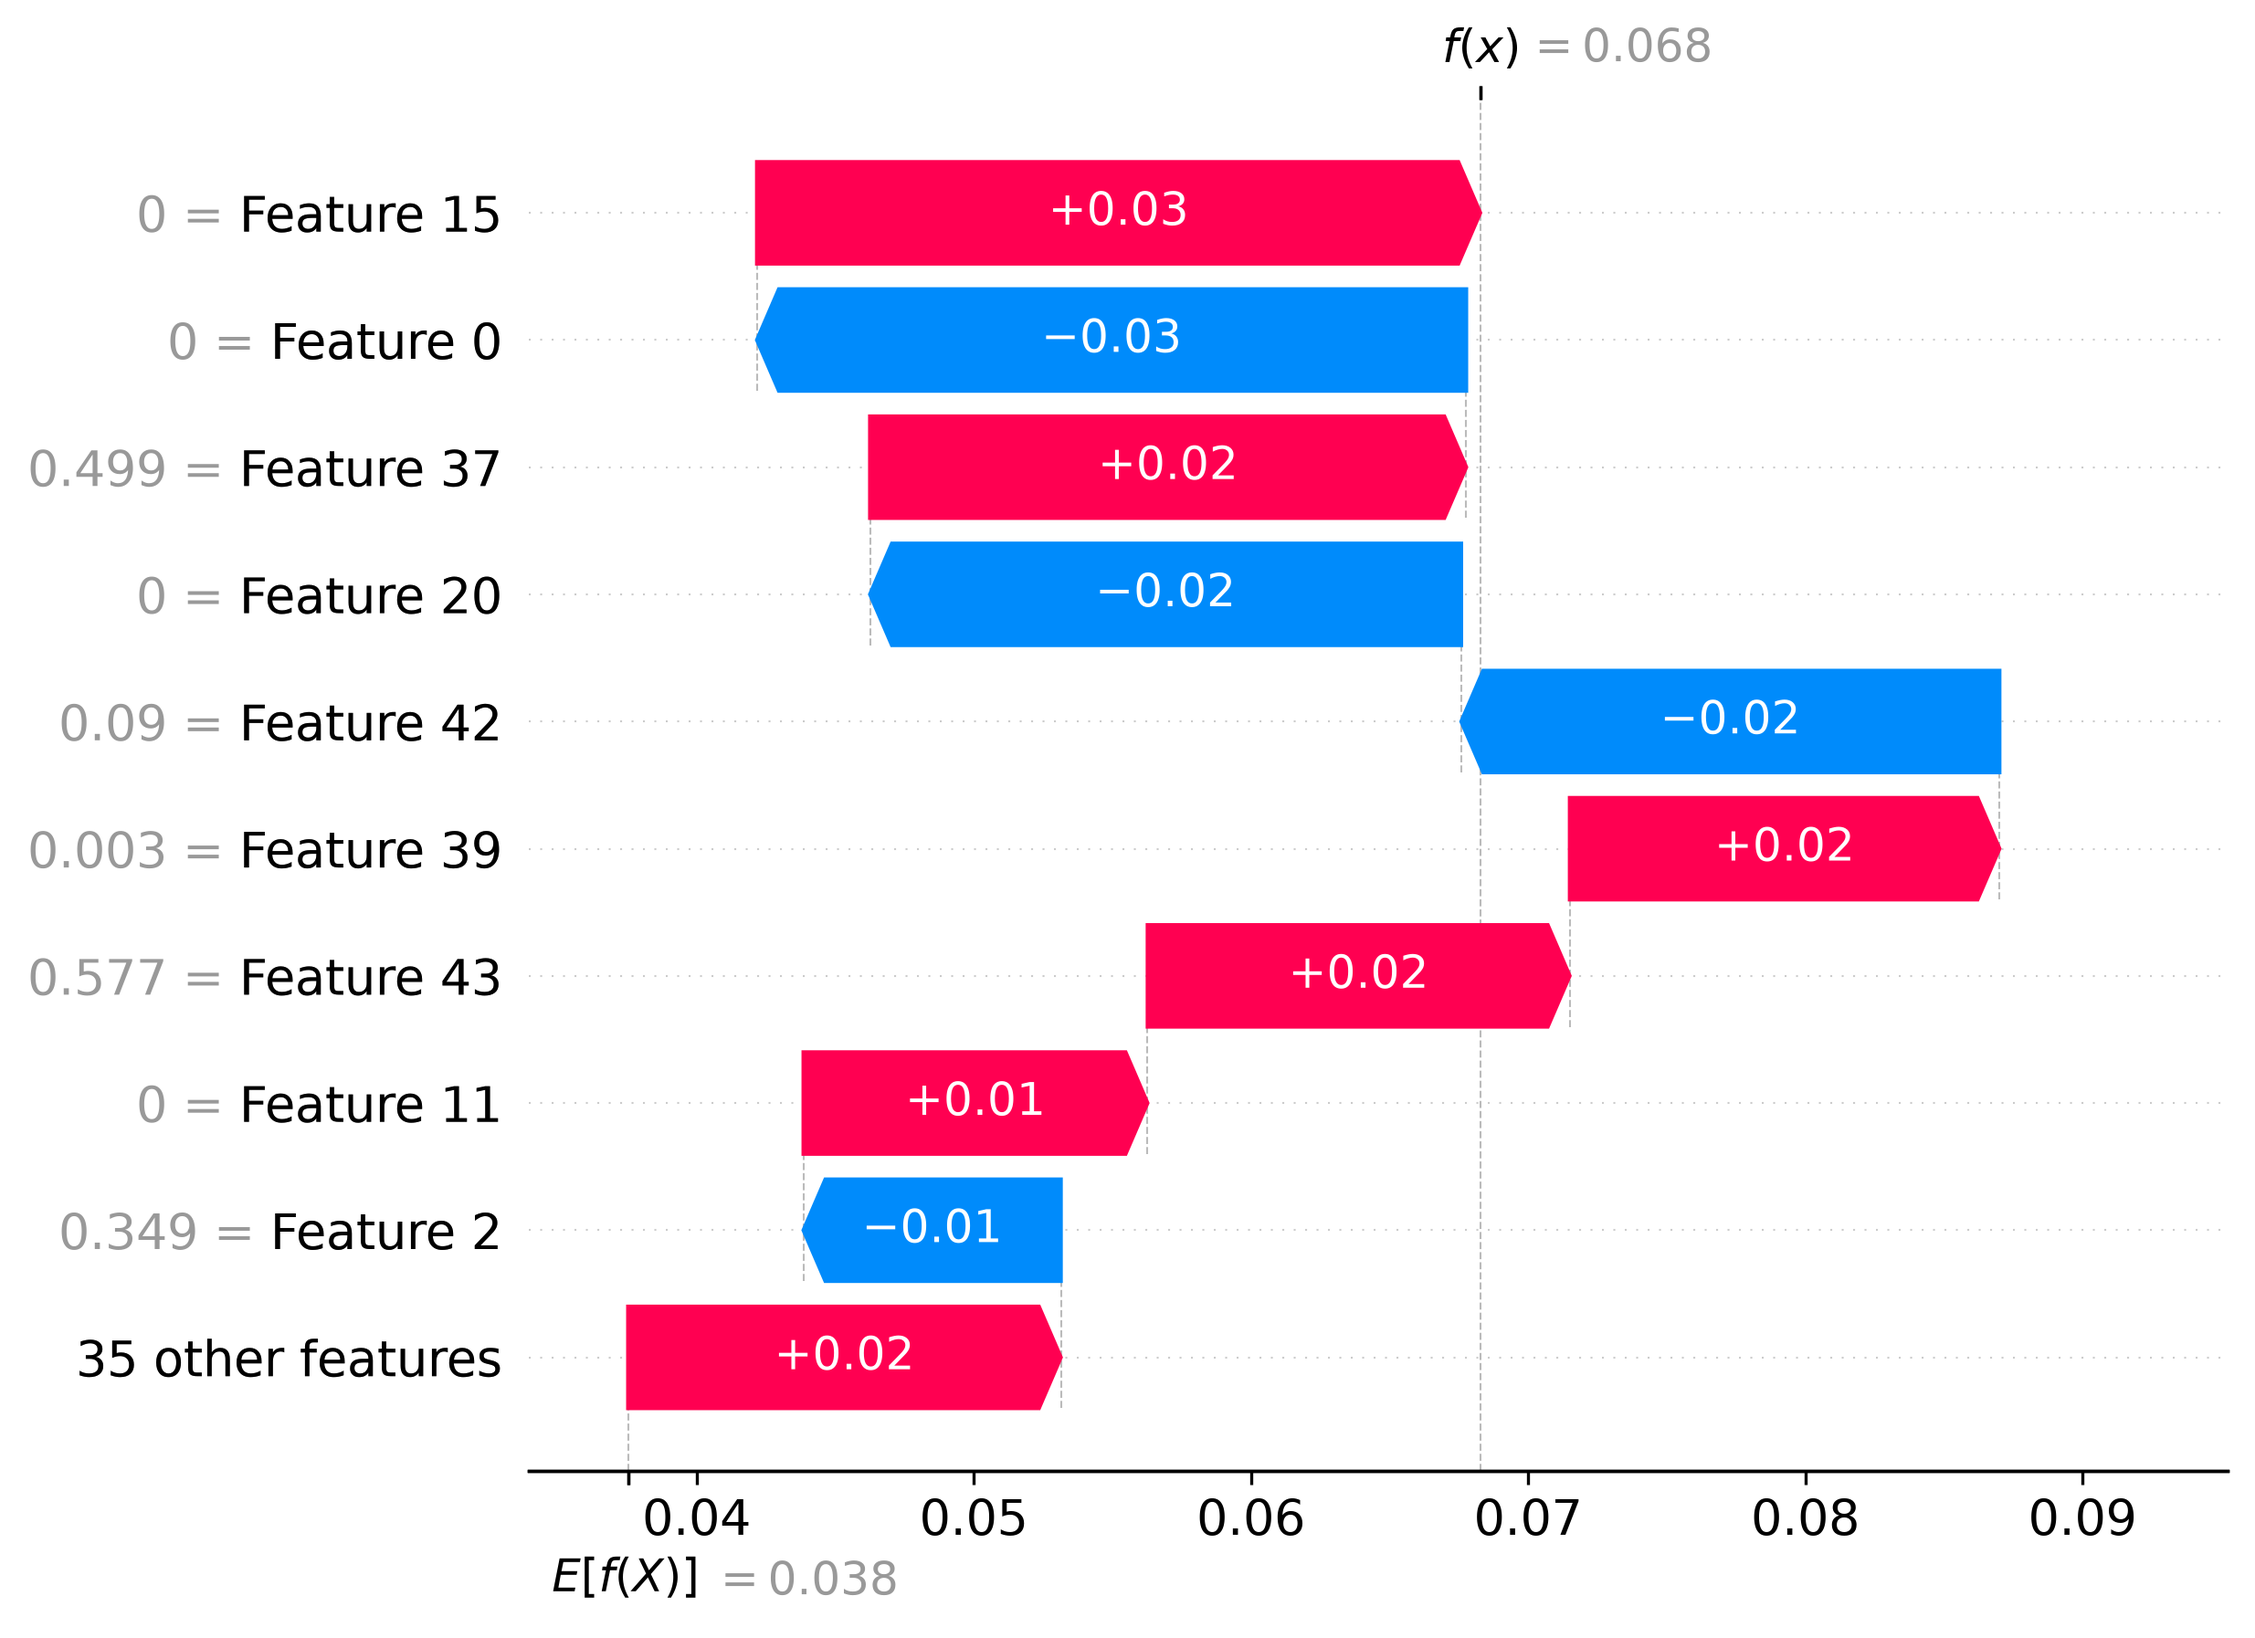
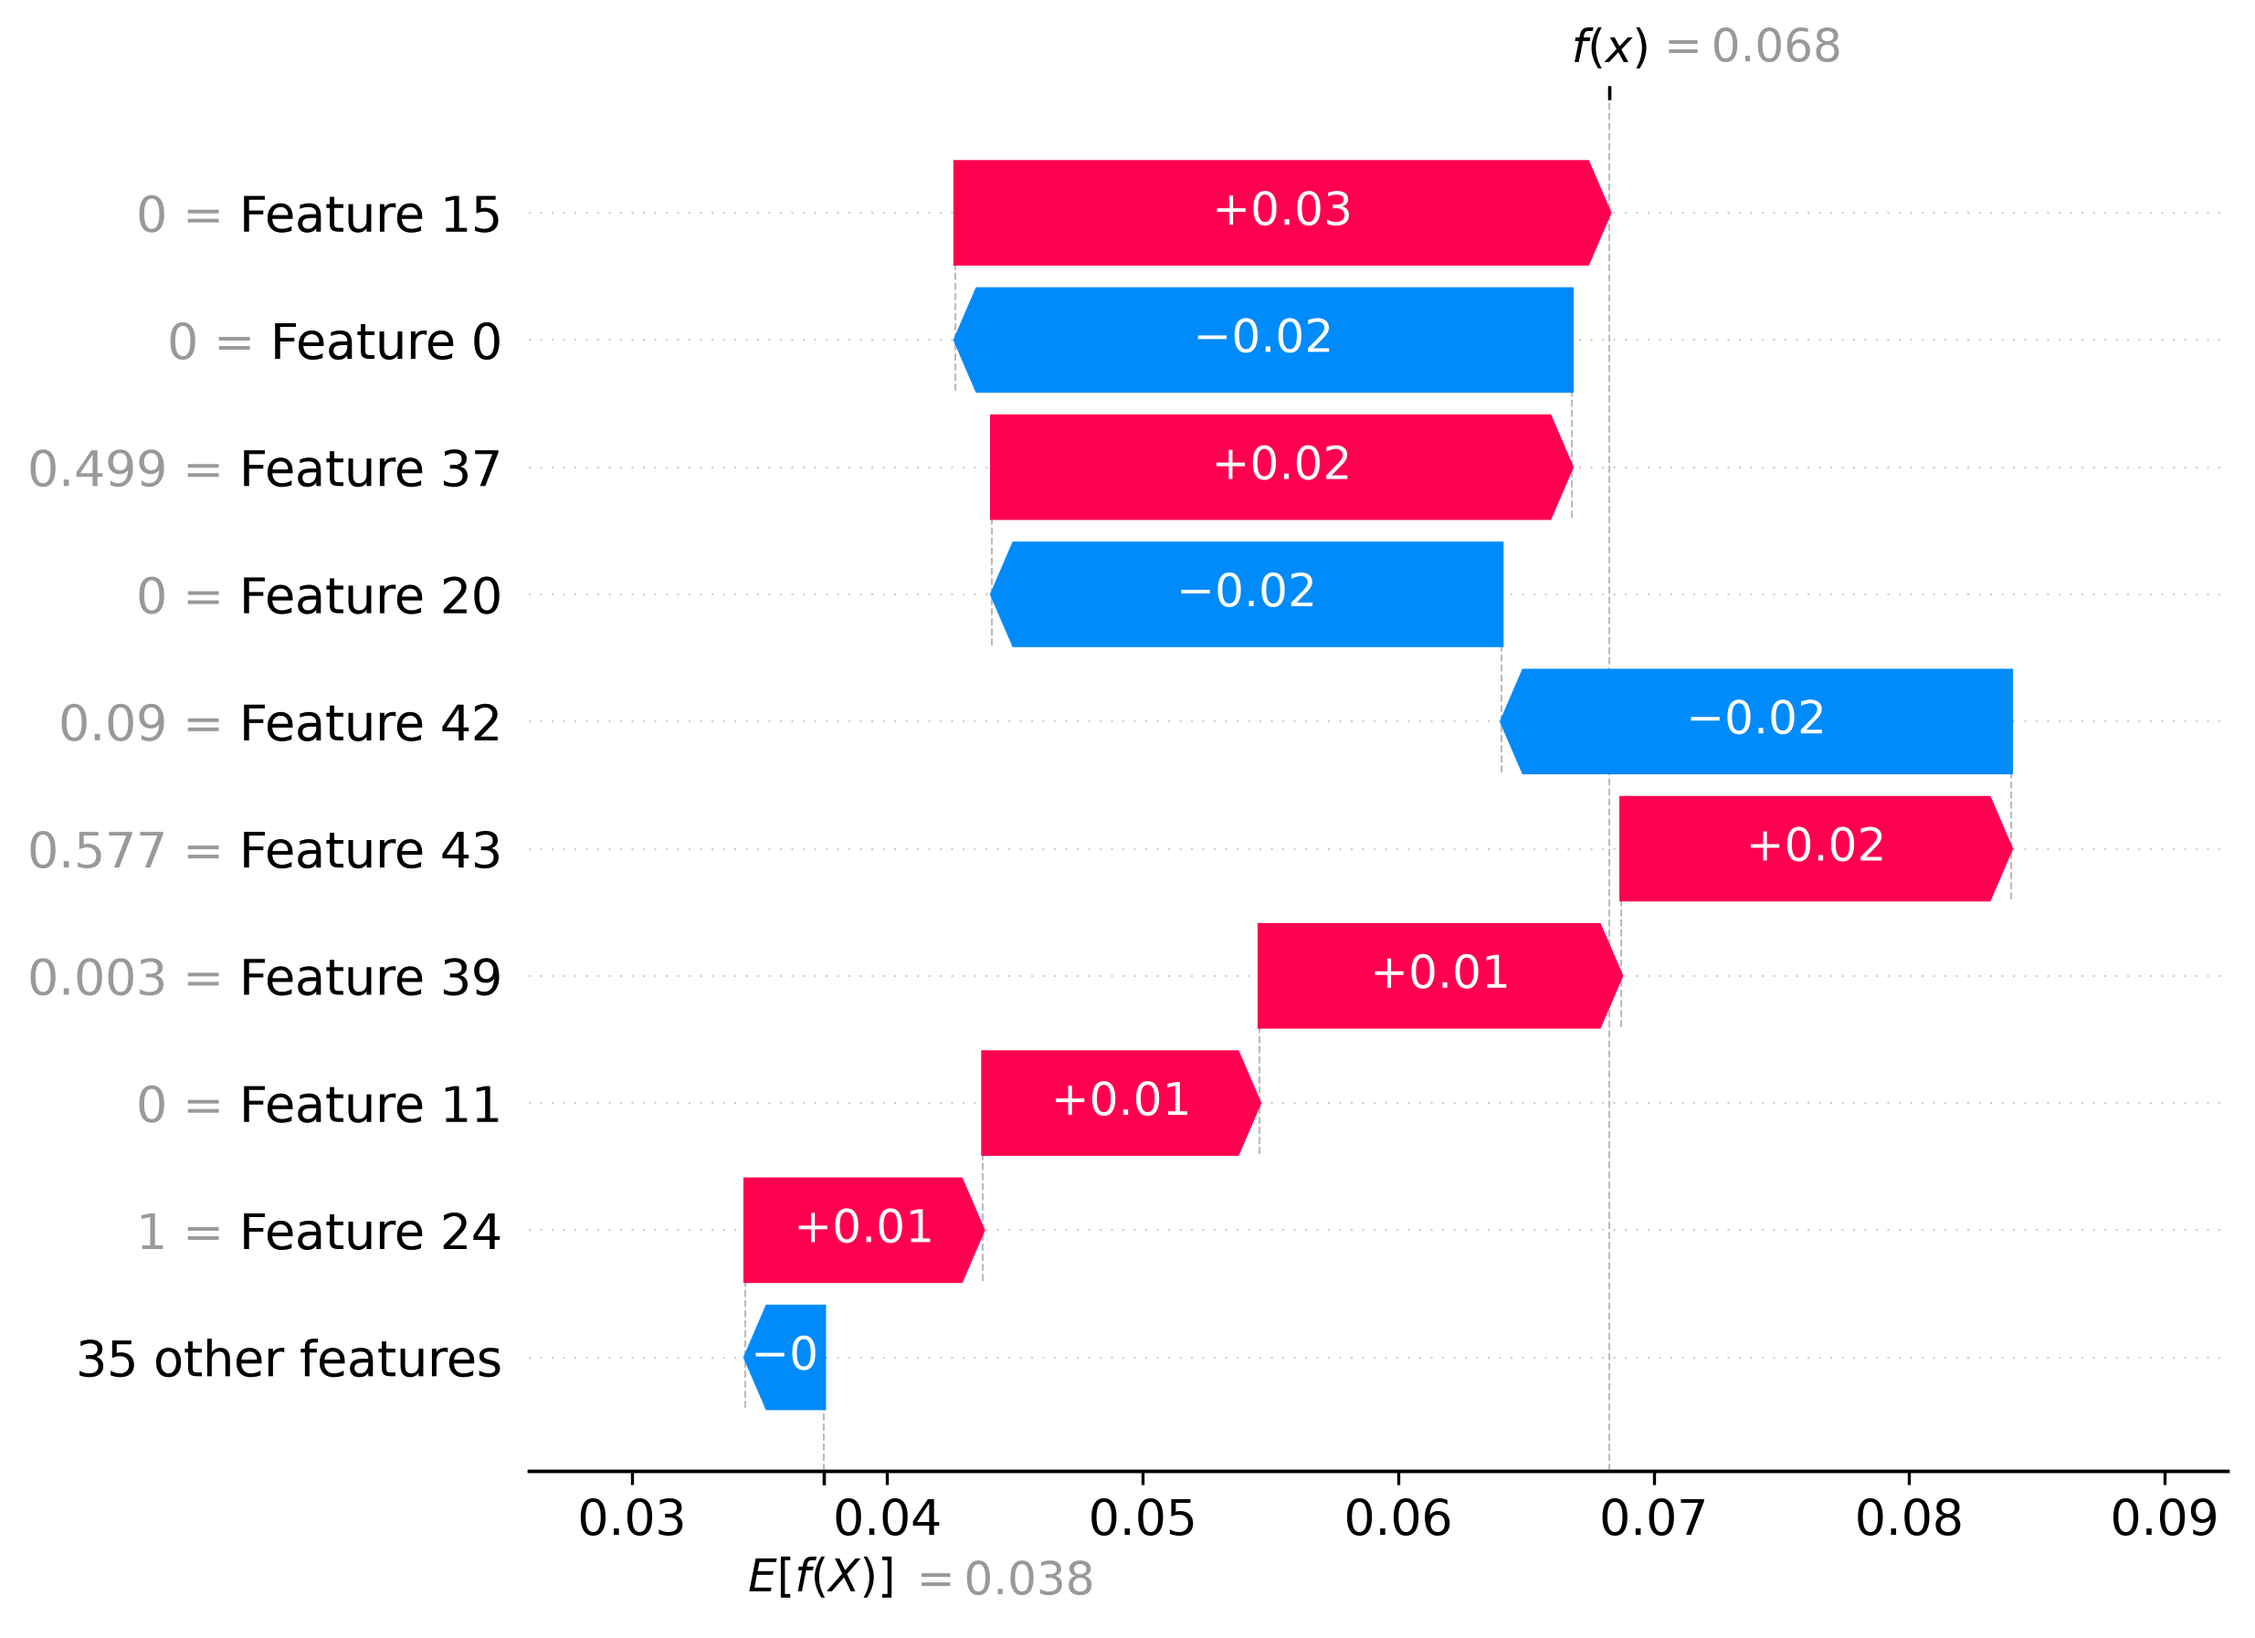
Completed SHAP visualization suite

diff --git a/src/explainability.py b/src/explainability.py
@@ -46,6 +46,93 @@ background = X_train_benign[:100]
 print("\nBackground dataset created successfully!")
 print(f"Background Shape: {background.shape}")
 
+# First selecting one validation sample
+sample = X_validation[:1]
+
+print("\nSample selected successfully!")
+print(f"Sample Shape: {sample.shape}")
+
+# This returns the reconstruction error for each sample.
+def anomaly_score(data):
+
+    reconstructed = model.predict(
+        data,
+        verbose=0)
+
+    errors = np.mean(
+        np.square(data - reconstructed),
+        axis=1)
+
+    return errors
+
+# Testing the function
+sample_score = anomaly_score(
+    X_validation[:5]
+)
+print("\nAnomaly scores generated successfully!")
+print(sample_score)
+
+# SHAP explainer for anomaly scores
+anomaly_explainer = shap.Explainer(
+    anomaly_score,
+    background)
+print("\nAnomaly SHAP Explainer created successfully!")
+
+anomaly_shap_values = anomaly_explainer(
+    sample
+)
+
+print("\nAnomaly SHAP values generated successfully!")
+print(anomaly_shap_values.values.shape)
+
+# Creating the waterfall plot
+plt.figure(figsize=(10, 6))
+
+shap.plots.waterfall(
+    anomaly_shap_values[0],
+    max_display=10,
+    show=False)
+
+plt.savefig(
+    "results/explainability/anomaly_score_waterfall.png",
+    dpi=300,
+    bbox_inches="tight")
+
+plt.close()
+
+print("\nAnomaly Score Waterfall plot saved successfully!")
+
+# absolute SHAP importance
+feature_importance = np.abs(
+    anomaly_shap_values.values[0])
+
+sorted_indices = np.argsort(
+    feature_importance
+)[::-1]
+
+# Creating the dataframe
+importance_df = pd.DataFrame({
+    "Feature": feature_names,
+    "SHAP Importance": feature_importance
+})
+
+# Sorting the dataframe
+importance_df = importance_df.sort_values(
+    by="SHAP Importance",
+    ascending=False
+)
+
+# displaying the top 10 features
+print("\n--------- Top 10 Important Features ----------")
+print(importance_df.head(10))
+
+# Saving the table 
+importance_df.to_csv(
+    "results/explainability/top10_shap_features.csv",
+    index=False
+)
+print("\nTop SHAP feature table saved successfully!")
+
 # Creating the SHAP explainer
 explainer = shap.Explainer(
     model,
@@ -58,12 +145,6 @@ os.makedirs( # to save results
     "results/explainability",
     exist_ok=True
 )
-
-# First selecting one validation sample
-sample = X_validation[:1]
-
-print("\nSample selected successfully!")
-print(f"Sample Shape: {sample.shape}")
 
 # Generating SHap values
 shap_values = explainer(sample)
@@ -89,3 +170,52 @@ plt.savefig(
 plt.close()
 
 print("\nSHAP Waterfall plot saved successfully!")
+
+# Now selecting multiple samples
+explanation_samples = X_validation[:100]
+
+print("\nGlobal explanation dataset created successfully!")
+print(f"Shape: {explanation_samples.shape}")
+
+# This generate Shap values
+global_shap_values = anomaly_explainer(
+    explanation_samples
+)
+
+print("\nGlobal SHAP values generated successfully!")
+print(global_shap_values.values.shape)
+
+
+# Create SHAP Summary Plot
+plt.figure(figsize=(10, 8))
+
+shap.summary_plot(
+    global_shap_values.values,
+    explanation_samples,
+    feature_names=feature_names,
+    show=False)
+
+plt.savefig(
+    "results/explainability/shap_summary_plot.png",
+    dpi=300,
+    bbox_inches="tight"
+)
+plt.close()
+
+print("\nSHAP Summary Plot saved successfully!")
+
+# Creating SHAP Global Bar Plot
+plt.figure(figsize=(10, 8))
+shap.plots.bar(
+    global_shap_values,
+    max_display=10,
+    show=False
+)
+plt.savefig(
+    "results/explainability/shap_bar_plot.png",
+    dpi=300,
+    bbox_inches="tight"
+)
+plt.close()
+
+print("\nSHAP Bar Plot saved successfully!")
